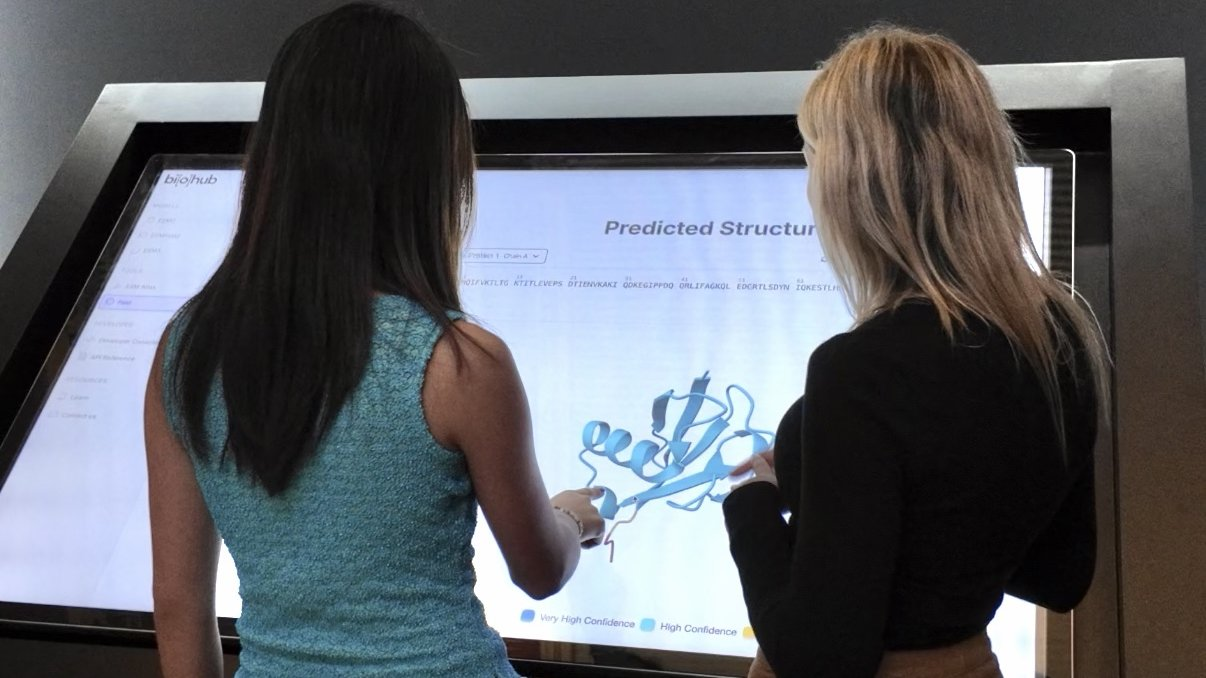
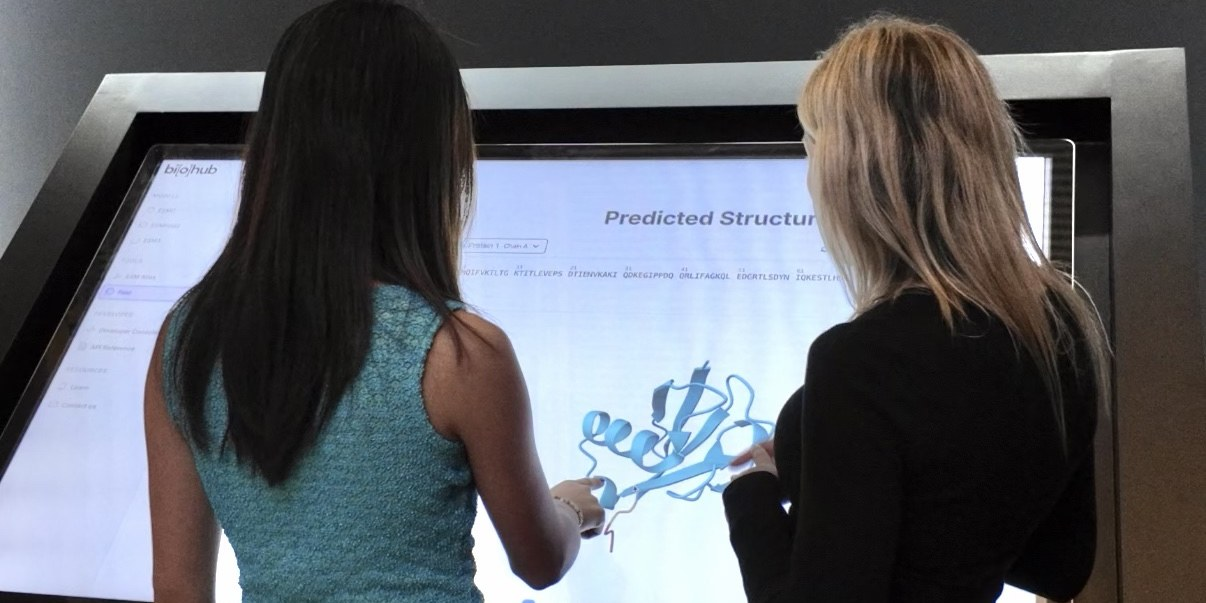
Make the homepage photo a shorter, wider shot
Recrop the protein structure photo to 2:1 so it takes up less of the
screen on laptops, and show a 4:3 crop on phones.

Claude-Session: https://claude.ai/code/session_01EPj93AnpKyKHbGuU77kjnY

diff --git a/index.md b/index.md
@@ -103,8 +103,15 @@ classes: wide
 }
 
 .bb-home .bb-photo-figure .bb-photo {
-  aspect-ratio: 16 / 9;
+  aspect-ratio: 4 / 3;
+  object-position: 50% 35%;
   margin: 0;
+}
+
+@media (min-width: 640px) {
+  .bb-home .bb-photo-figure .bb-photo {
+    aspect-ratio: 2 / 1;
+  }
 }
 
 .bb-home .bb-photo-figure figcaption {
@@ -353,7 +360,7 @@ classes: wide
 <section class="bb-photo-band">
   <div class="bb-wrap">
     <figure class="bb-photo-figure">
-      <img class="bb-photo" src="/assets/images/protein-structure.jpg" alt="Jean Tran and a colleague exploring a predicted protein structure on a touchscreen" width="1206" height="678" loading="lazy">
+      <img class="bb-photo" src="/assets/images/protein-structure.jpg" alt="Jean Tran and a colleague exploring a predicted protein structure on a touchscreen" width="1206" height="603" loading="lazy">
       <figcaption>Exploring a predicted protein structure.</figcaption>
     </figure>
   </div>
